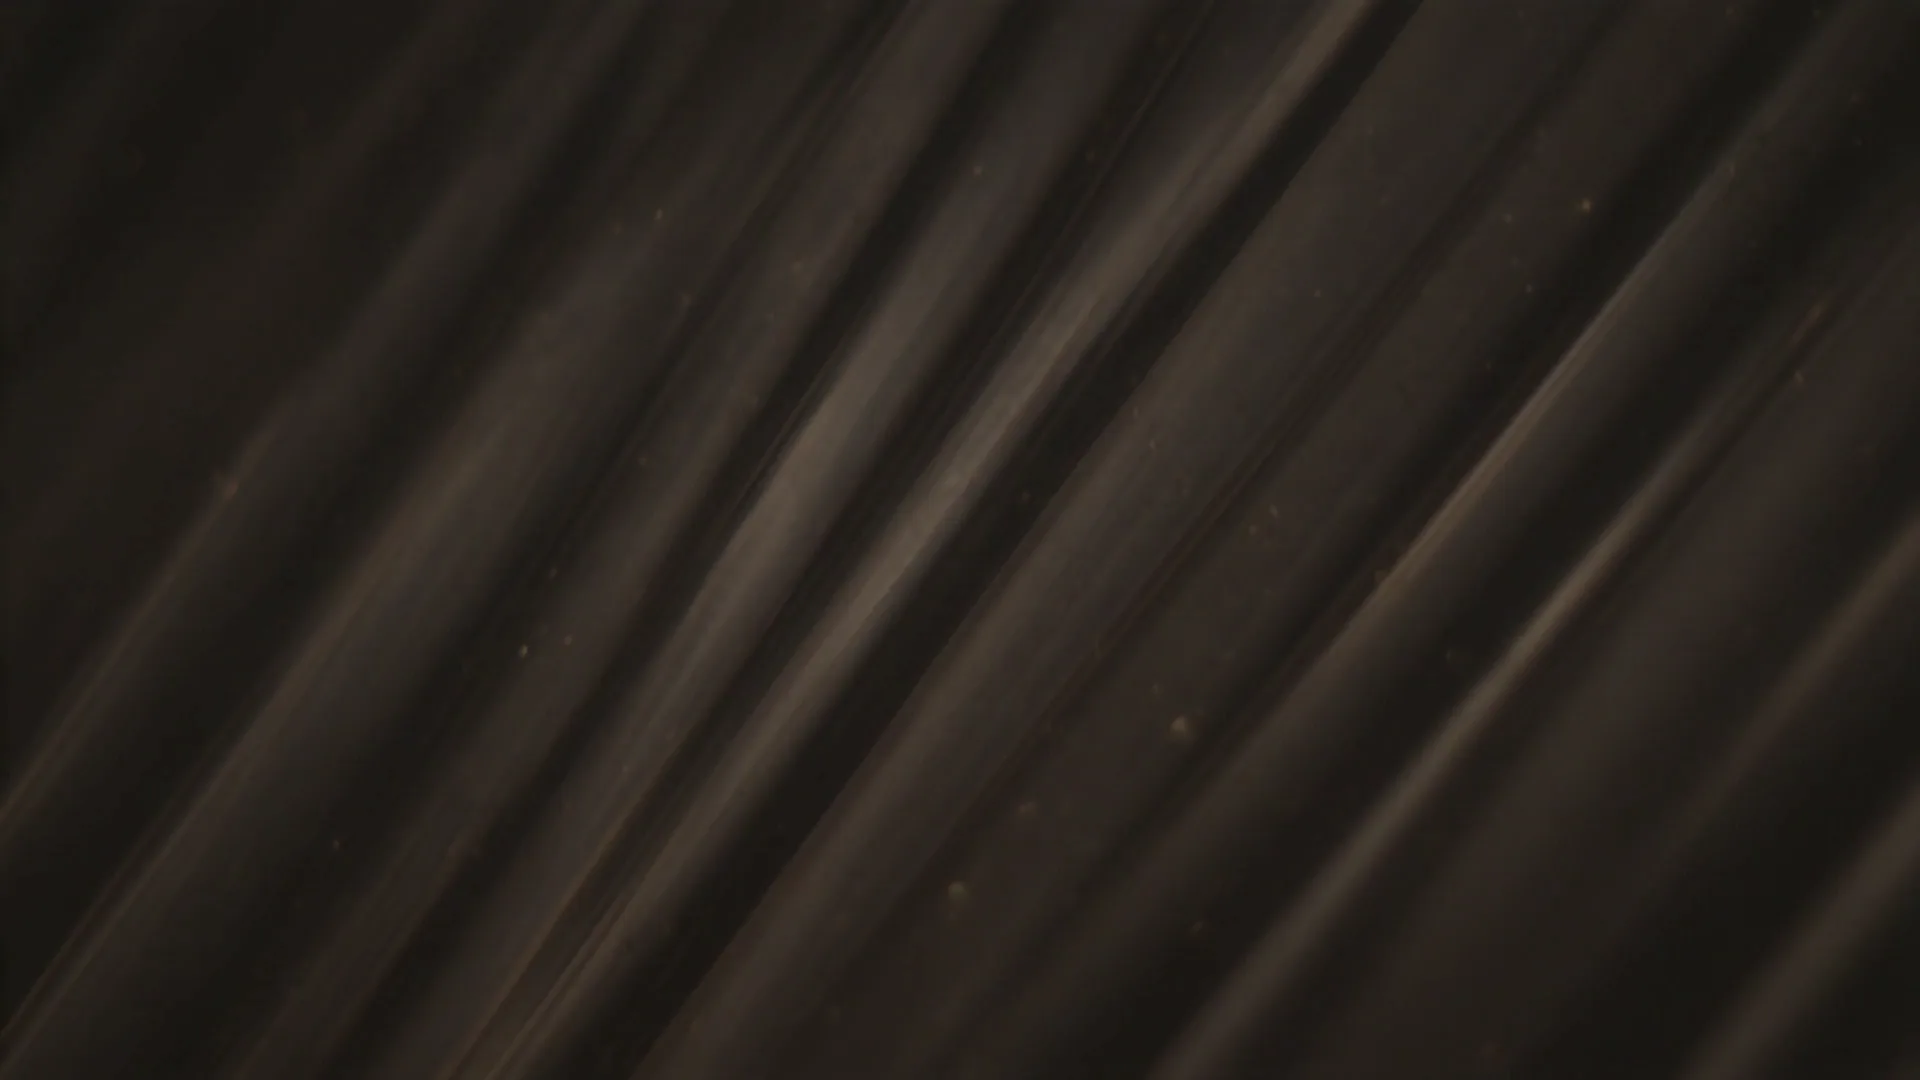
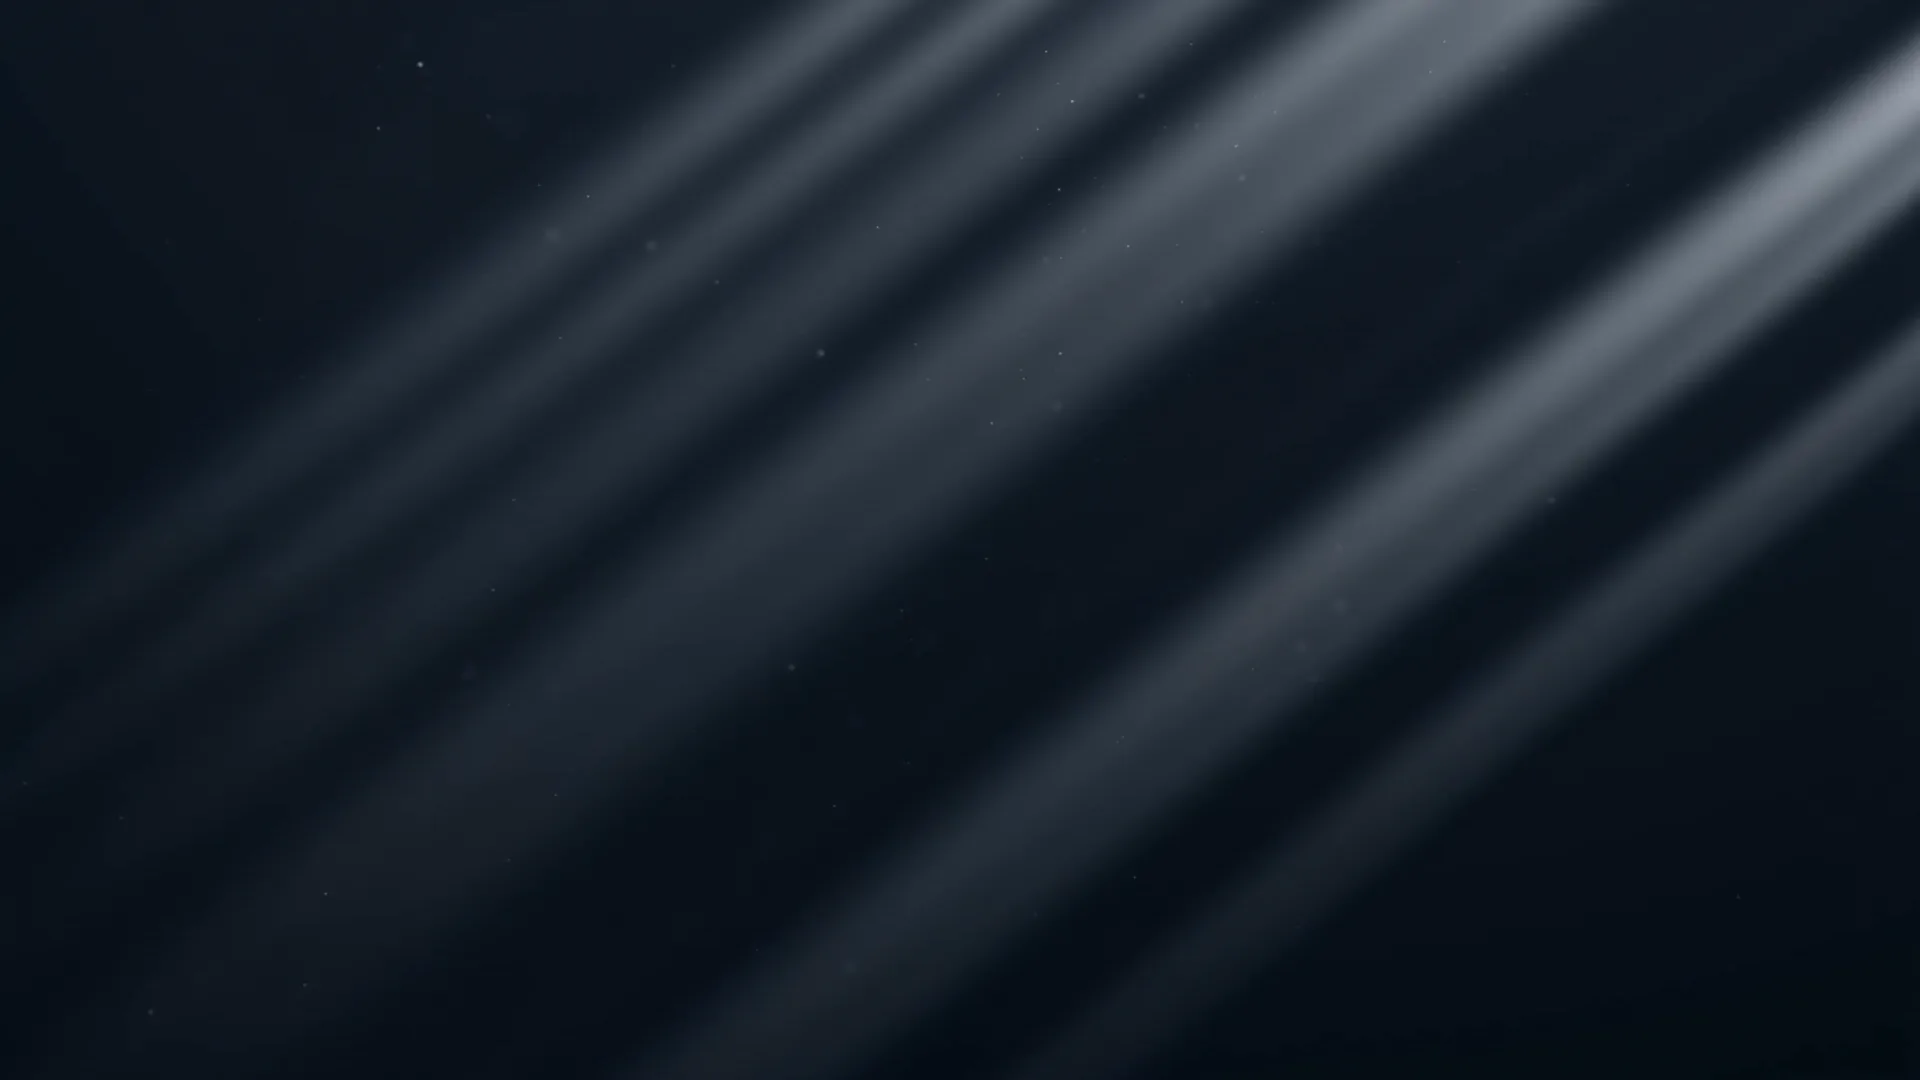
Replace hero with abstract Seedance loop; drop EmolyTicks from ticker
Hero video reworked per an art-directed brief: instead of an AI-rendered
device/UI scene (which produced fake, garbled dashboards), use a premium
ABSTRACT software-studio background — dark charcoal with diagonal light
streaks, a gold node-network/workflow drawing in, translucent glass panels,
dissolving back for a seamless loop. Generated with fal.ai Seedance 2.0
(text-to-video, 1080p, 8s, muted); no readable text/UI so nothing to garble,
with clean left negative space for the headline. Clearly animated (the prior
loop read as static). Assets overwrite hero-loop.{webm,mp4} + poster;
object-position recentered.

Also removed "EmolyTicks" from the home Ticker (a hardcoded curated list;
SelectedWork is data-driven and already dropped it after unpublish).

Claude-Session: https://claude.ai/code/session_01Nor1cd5CKJCFRxyzXgP6BV

diff --git a/frontend/components/landing/HeroSection.tsx b/frontend/components/landing/HeroSection.tsx
@@ -14,7 +14,8 @@ export function HeroSection({ shippedCount }: HeroProps) {
       id="hero"
       className="relative flex min-h-[100svh] scroll-mt-16 flex-col justify-center overflow-hidden bg-background"
     >
-      {/* Generated hero visual — machined obsidian & gold, seamless motion loop */}
+      {/* Generated hero visual — abstract software-studio background (gold node network,
+          glass panels, light streaks), muted autoplay loop */}
       <div className="absolute inset-0">
         {/* Static poster: the LCP paint + the reduced-motion fallback */}
         <Image
@@ -24,11 +25,11 @@ export function HeroSection({ shippedCount }: HeroProps) {
           priority
           sizes="100vw"
           quality={85}
-          className="scale-105 object-cover object-[70%_center]"
+          className="scale-105 object-cover object-center"
         />
         {/* Motion layer: muted autoplay loop, hidden for reduced-motion via .hero-video */}
         <video
-          className="hero-video absolute inset-0 h-full w-full scale-105 object-cover object-[70%_center]"
+          className="hero-video absolute inset-0 h-full w-full scale-105 object-cover object-center"
           autoPlay
           muted
           loop
@@ -41,7 +42,7 @@ export function HeroSection({ shippedCount }: HeroProps) {
           <source src="/assets/hero-loop.mp4" type="video/mp4" />
         </video>
         {/* Legibility scrims: darken the text side (left) and the bottom seam */}
-        <div className="absolute inset-0 bg-gradient-to-r from-background via-background/85 to-transparent" />
+        <div className="absolute inset-0 bg-gradient-to-r from-background via-background/75 to-transparent" />
         <div className="absolute inset-0 bg-gradient-to-t from-background via-transparent to-background/40" />
         <div className="absolute inset-0 bg-grid opacity-50" />
         <div className="absolute inset-0 bg-noise opacity-[0.05] mix-blend-overlay" />

diff --git a/frontend/components/landing/Ticker.tsx b/frontend/components/landing/Ticker.tsx
@@ -2,7 +2,6 @@ const ITEMS = [
   "Dolfy",
   "Dialable",
   "Maximus IPTV",
-  "EmolyTicks",
   "SaaS Platforms",
   "Mobile Apps",
   "AI & Machine Learning",